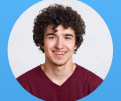
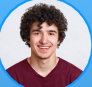
templates adjustment

diff --git a/lib/Templates/template17.dart b/lib/Templates/template17.dart
@@ -121,9 +121,9 @@ class _Template17State extends State<Template17> {
                           backgroundImage: _profileImage != null
                               ? FileImage(_profileImage!)
                               : AssetImage(
-                              AppImages.profilePicture)
+                              AppImages.profilePicture17)
                           as ImageProvider,
-                          radius: 35.r,
+                          radius: 40.r,
                         ),
                       ),
                     ),

diff --git a/lib/utils/constant/app_images_constant.dart b/lib/utils/constant/app_images_constant.dart
@@ -9,6 +9,7 @@ class AppImages extends AssetImage {
   static const String profilePicture = '$_assetsPath/20.png';
   static const String profilePicture19 = '$_assetsPath/19.png';
   static const String profilePicture18 = '$_assetsPath/18.png';
+  static const String profilePicture17 = '$_assetsPath/17.png';
 
   static const String Template8ProfilePhoto = '$_assetsPath/Template8ProfilePhoto.png';
   static const String template1 = '$_assetsPath/template1.png';
